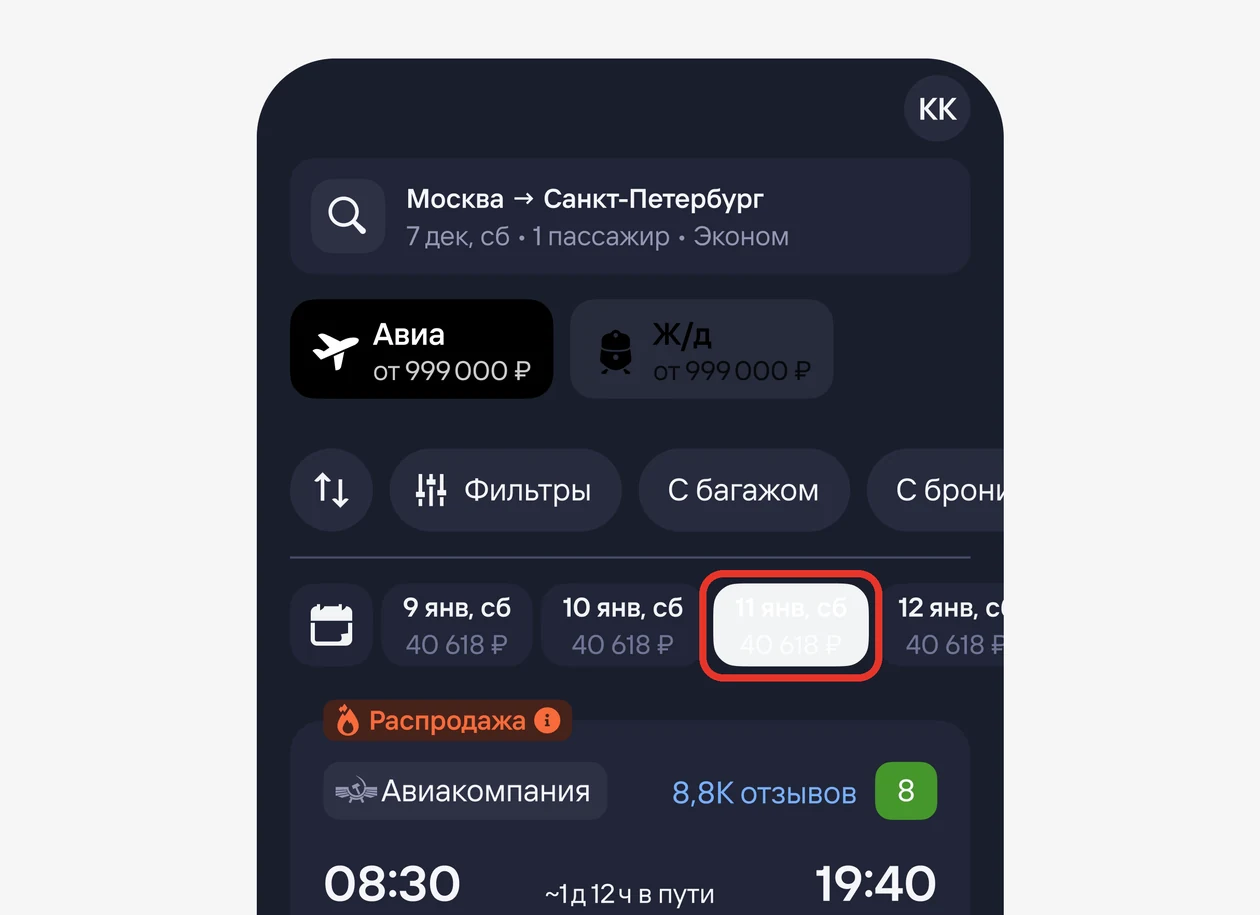
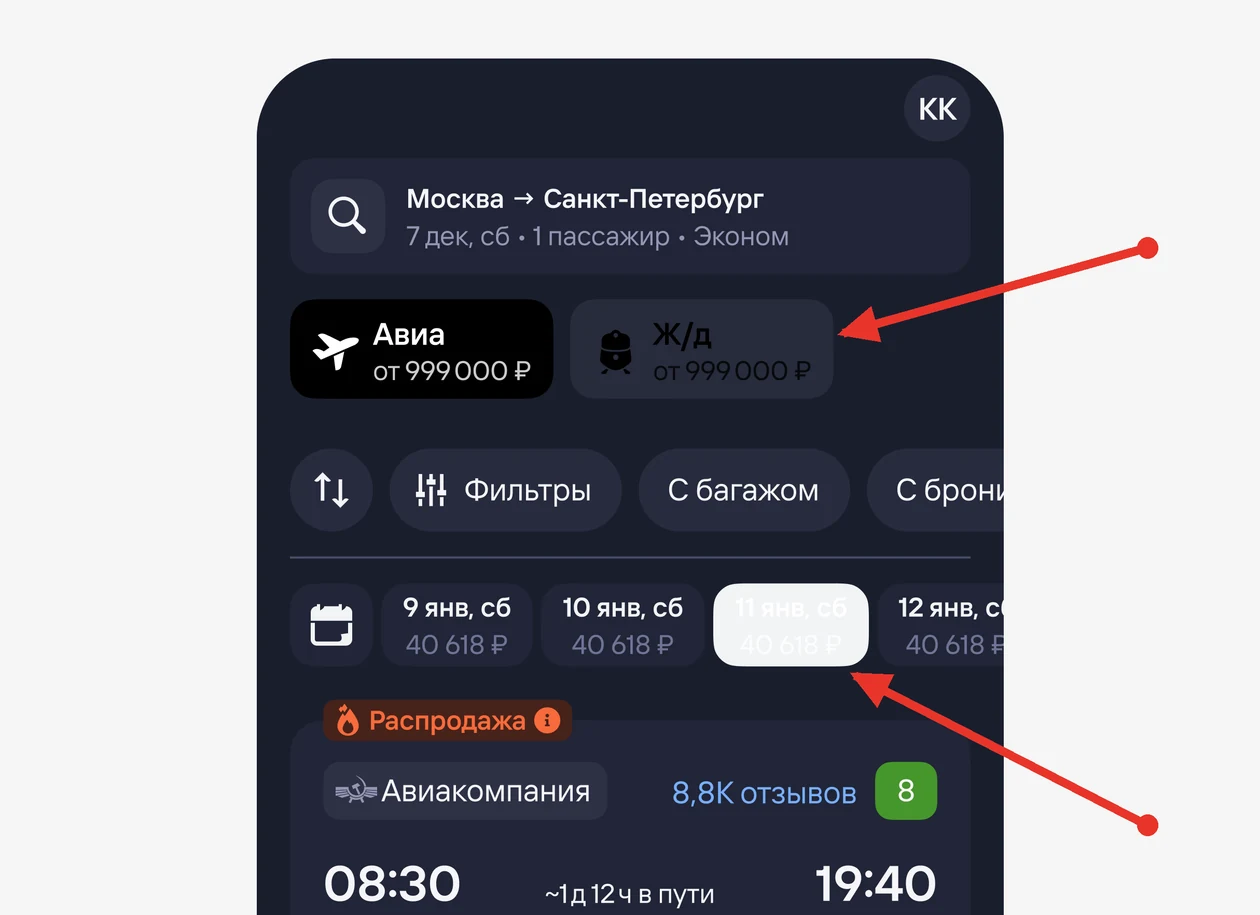
Kite DS: arrows on the theme bug
Claude-Session: https://claude.ai/code/session_01RRbtjB1Ax1vA2u46cEyf4d

diff --git a/index.html b/index.html
@@ -384,7 +384,7 @@
             <img data-modes="Theme=Dark" src="assets/img/kite/bug-dark.webp" alt="The same screen in the dark theme: the selected date turns white on white and disappears" loading="lazy">
           </div><div class="vm" aria-hidden="true"></div>
           </div>
-          <figcaption><b>Before.</b> Switch the theme and the selected date disappears: its colors were fixed for the light theme.</figcaption>
+          <figcaption><b>Before.</b> Switch the theme and parts of the screen don’t follow: the selected date turns white on white and the rail tab fades into the background. Their colors were fixed for the light theme.</figcaption>
         </figure>
         <p>The bug was a symptom. The audit found four root causes:</p>
         <ul class="list">
